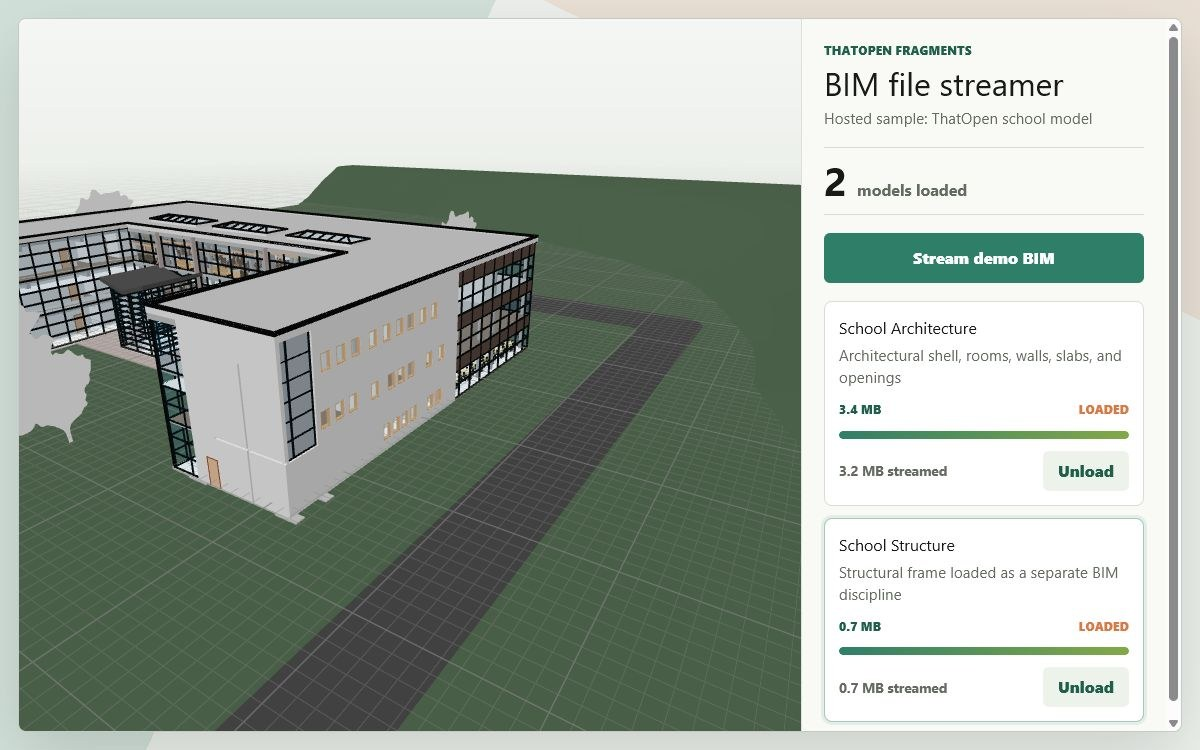
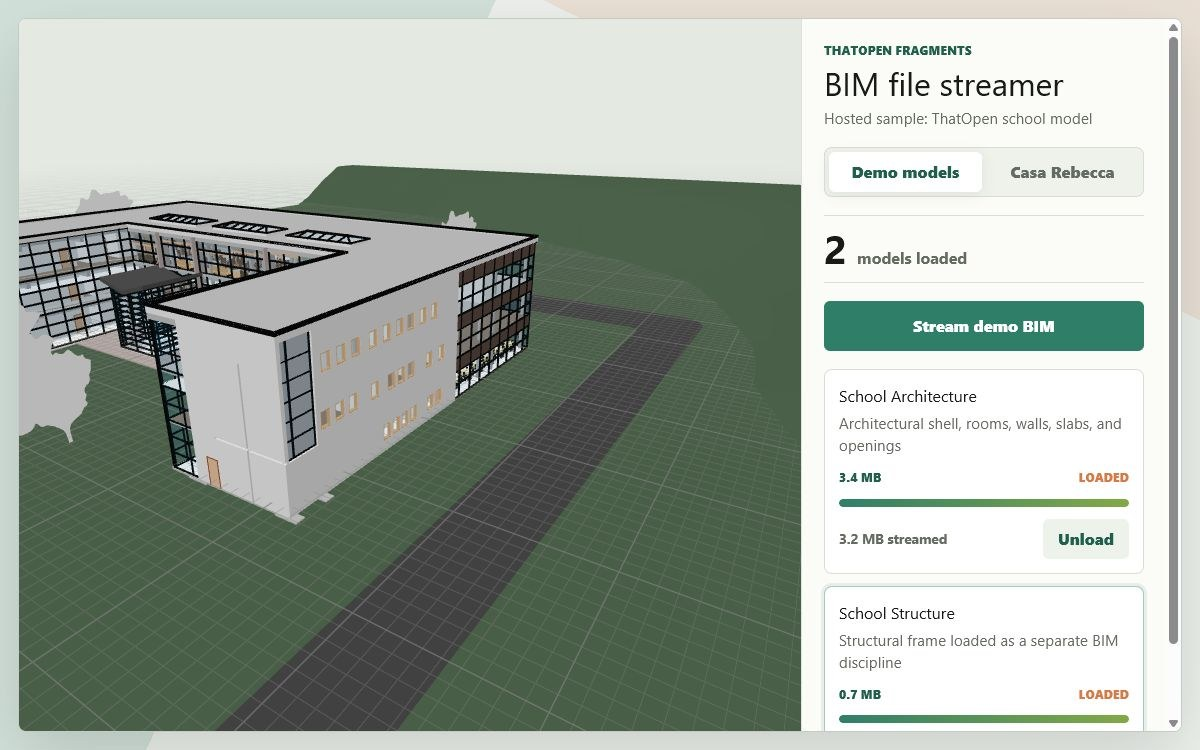
Add Casa Rebecca model switcher

Changed region(s): [[0.6783, 0.3067, 0.9867, 0.9813], [0.6783, 0.2147, 0.8325, 0.276], [0.8325, 0.2147, 0.925, 0.2453]]

diff --git a/app/BimStreamer.tsx b/app/BimStreamer.tsx
@@ -4,12 +4,17 @@ import { useEffect, useMemo, useRef, useState } from "react";
 
 type ModelStatus = "idle" | "streaming" | "loaded" | "error";
 
+type DatasetId = "demo" | "casa";
+
 type DemoModel = {
+  dataset: DatasetId;
   description: string;
+  disabledReason?: string;
   id: string;
   name: string;
+  sourceFormat: string;
   size: string;
-  url: string;
+  url?: string;
 };
 
 type ModelState = {
@@ -37,18 +42,52 @@ type Runtime = {
 
 const MODELS: DemoModel[] = [
   {
+    dataset: "demo",
     description: "Architectural shell, rooms, walls, slabs, and openings",
     id: "school_arq",
     name: "School Architecture",
+    sourceFormat: "Fragments",
     size: "3.4 MB",
     url: "/models/school_arq.frag",
   },
   {
+    dataset: "demo",
     description: "Structural frame loaded as a separate BIM discipline",
     id: "school_str",
     name: "School Structure",
+    sourceFormat: "Fragments",
     size: "0.7 MB",
     url: "/models/school_str.frag",
+  },
+  {
+    dataset: "casa",
+    description: "Kilpoole House Project.rvt from Google Drive",
+    disabledReason:
+      "Casa Rebecca is an RVT source file. This browser stack can stream IFC-derived Fragments, so the RVT must be exported to IFC or converted with Revit/Autodesk tooling first.",
+    id: "casa_rebecca",
+    name: "Casa Rebecca",
+    sourceFormat: "RVT source",
+    size: "431 MB",
+  },
+];
+
+const DATASETS: Array<{
+  action: string;
+  description: string;
+  id: DatasetId;
+  label: string;
+}> = [
+  {
+    action: "Stream demo BIM",
+    description: "Hosted sample: ThatOpen school model",
+    id: "demo",
+    label: "Demo models",
+  },
+  {
+    action: "Load Casa Rebecca",
+    description: "RVT source: conversion needed",
+    id: "casa",
+    label: "Casa Rebecca",
   },
 ];
 
@@ -111,12 +150,24 @@ export default function BimStreamer() {
   const [bootError, setBootError] = useState<string | null>(null);
   const [modelStates, setModelStates] = useState(initialModelState);
   const [activeModelId, setActiveModelId] = useState<string | null>(null);
+  const [activeDatasetId, setActiveDatasetId] = useState<DatasetId>("demo");
+
+  const activeDataset = DATASETS.find(
+    (dataset) => dataset.id === activeDatasetId,
+  )!;
+
+  const currentModels = useMemo(
+    () => MODELS.filter((model) => model.dataset === activeDatasetId),
+    [activeDatasetId],
+  );
+
+  const hasStreamableModels = currentModels.some((model) => model.url);
 
   const activeCount = useMemo(
     () =>
-      Object.values(modelStates).filter((model) => model.status === "loaded")
+      currentModels.filter((model) => modelStates[model.id].status === "loaded")
         .length,
-    [modelStates],
+    [currentModels, modelStates],
   );
 
   useEffect(() => {
@@ -126,7 +177,10 @@ export default function BimStreamer() {
       if (!viewerRef.current) return;
 
       try {
-        const OBC = await import("@thatopen/components");
+        const [OBC, THREE] = await Promise.all([
+          import("@thatopen/components"),
+          import("three"),
+        ]);
         const components = new OBC.Components();
         const worlds = components.get(OBC.Worlds);
         const world = worlds.create<
@@ -137,10 +191,10 @@ export default function BimStreamer() {
 
         world.scene = new OBC.SimpleScene(components);
         world.scene.setup();
-        world.scene.three.background = null;
+        world.scene.three.background = new THREE.Color("#e4e9e2");
         world.renderer = new OBC.SimpleRenderer(components, viewerRef.current, {
           antialias: true,
-          alpha: true,
+          alpha: false,
         });
         world.renderer.showLogo = false;
         world.camera = new OBC.OrthoPerspectiveCamera(components);
@@ -209,6 +263,14 @@ export default function BimStreamer() {
   const loadModel = async (model: DemoModel) => {
     const runtime = runtimeRef.current;
     if (!runtime || modelStates[model.id].status === "streaming") return;
+    if (!model.url) {
+      setActiveModelId(model.id);
+      setModelState(model.id, {
+        error: model.disabledReason,
+        status: "error",
+      });
+      return;
+    }
 
     try {
       if (runtime.fragments.list.has(model.id)) {
@@ -272,8 +334,30 @@ export default function BimStreamer() {
     });
   };
 
+  const unloadAllModels = async () => {
+    const runtime = runtimeRef.current;
+    if (runtime) {
+      for (const model of MODELS) {
+        if (runtime.fragments.list.has(model.id)) {
+          await runtime.fragments.core.disposeModel(model.id);
+        }
+      }
+      runtime.fragments.core.update(true);
+    }
+
+    setActiveModelId(null);
+    setModelStates(initialModelState());
+  };
+
+  const switchDataset = async (dataset: DatasetId) => {
+    if (dataset === activeDatasetId) return;
+    await unloadAllModels();
+    setActiveDatasetId(dataset);
+  };
+
   const loadAll = async () => {
-    for (const model of MODELS) {
+    for (const model of currentModels) {
+      if (!model.url) continue;
       if (modelStates[model.id].status !== "loaded") {
         await loadModel(model);
       }
@@ -295,8 +379,21 @@ export default function BimStreamer() {
           <header>
             <span>ThatOpen fragments</span>
             <h1>BIM file streamer</h1>
-            <p>Hosted sample: ThatOpen school model</p>
+            <p>{activeDataset.description}</p>
           </header>
+
+          <div className="dataset-switcher" aria-label="Model set">
+            {DATASETS.map((dataset) => (
+              <button
+                aria-pressed={activeDatasetId === dataset.id}
+                key={dataset.id}
+                onClick={() => void switchDataset(dataset.id)}
+                type="button"
+              >
+                {dataset.label}
+              </button>
+            ))}
+          </div>
 
           <div className="status-strip">
             <strong>{activeCount}</strong>
@@ -305,25 +402,32 @@ export default function BimStreamer() {
 
           <button
             className="primary-action"
-            disabled={!isReady || Object.values(modelStates).some(
-              (state) => state.status === "streaming",
-            )}
+            disabled={
+              !isReady ||
+              !hasStreamableModels ||
+              Object.values(modelStates).some(
+                (state) => state.status === "streaming",
+              )
+            }
             onClick={loadAll}
             type="button"
           >
-            Stream demo BIM
+            {hasStreamableModels ? activeDataset.action : "Needs conversion"}
           </button>
 
           <div className="model-list">
-            {MODELS.map((model) => {
+            {currentModels.map((model) => {
               const state = modelStates[model.id];
               const isLoaded = state.status === "loaded";
               const isStreaming = state.status === "streaming";
               const isActive = activeModelId === model.id;
+              const isBlocked = !model.url;
 
               return (
                 <article
-                  className={`model-row ${isActive ? "model-row-active" : ""}`}
+                  className={`model-row ${isActive ? "model-row-active" : ""} ${
+                    isBlocked ? "model-row-blocked" : ""
+                  }`}
                   key={model.id}
                 >
                   <div>
@@ -333,7 +437,7 @@ export default function BimStreamer() {
 
                   <div className="model-meta">
                     <span>{model.size}</span>
-                    <span>{state.status}</span>
+                    <span>{isBlocked ? model.sourceFormat : state.status}</span>
                   </div>
 
                   <div className="progress-track">
@@ -342,20 +446,34 @@ export default function BimStreamer() {
 
                   <div className="row-footer">
                     <span>
-                      {state.bytesLoaded
+                      {isBlocked
+                        ? "RVT source not streamable"
+                        : state.bytesLoaded
                         ? `${formatBytes(state.bytesLoaded)} streamed`
                         : "Ready to stream"}
                     </span>
                     <button
-                      disabled={!isReady || isStreaming}
-                      onClick={() => (isLoaded ? unloadModel(model) : loadModel(model))}
+                      disabled={!isReady || isStreaming || isBlocked}
+                      onClick={() =>
+                        isLoaded ? unloadModel(model) : loadModel(model)
+                      }
                       type="button"
                     >
-                      {isLoaded ? "Unload" : isStreaming ? "Streaming" : "Load"}
+                      {isBlocked
+                        ? "Needs IFC"
+                        : isLoaded
+                          ? "Unload"
+                          : isStreaming
+                            ? "Streaming"
+                            : "Load"}
                     </button>
                   </div>
 
-                  {state.error ? <p className="error-text">{state.error}</p> : null}
+                  {state.error || model.disabledReason ? (
+                    <p className="error-text">
+                      {state.error ?? model.disabledReason}
+                    </p>
+                  ) : null}
                 </article>
               );
             })}

diff --git a/app/globals.css b/app/globals.css
@@ -50,6 +50,7 @@ button {
 
 .viewer-shell {
   position: relative;
+  isolation: isolate;
   display: grid;
   grid-template-columns: minmax(0, 1fr) 380px;
   height: calc(100vh - 36px);
@@ -63,7 +64,11 @@ button {
 
 .viewer-surface {
   position: relative;
+  z-index: 1;
+  contain: paint;
   min-height: 0;
+  overflow: hidden;
+  clip-path: inset(0);
   background:
     linear-gradient(180deg, rgba(255, 255, 255, 0.62), transparent 42%),
     #e4e9e2;
@@ -89,15 +94,20 @@ button {
 }
 
 .control-panel {
+  position: relative;
+  z-index: 10;
+  contain: paint;
+  clip-path: inset(0);
+  transform: translateZ(0);
   display: flex;
   flex-direction: column;
   gap: 18px;
   min-width: 0;
   overflow: auto;
+  overflow-x: hidden;
   padding: 22px;
   border-left: 1px solid rgba(23, 26, 22, 0.12);
-  background: rgba(251, 252, 248, 0.94);
-  backdrop-filter: blur(18px);
+  background: var(--panel);
 }
 
 .control-panel header {
@@ -133,6 +143,32 @@ button {
   gap: 10px;
   padding: 12px 0;
   border-block: 1px solid var(--line);
+}
+
+.dataset-switcher {
+  display: grid;
+  grid-template-columns: 1fr 1fr;
+  gap: 4px;
+  padding: 4px;
+  border: 1px solid var(--line);
+  border-radius: 8px;
+  background: #eef2eb;
+}
+
+.dataset-switcher button {
+  min-height: 40px;
+  border: 0;
+  border-radius: 6px;
+  background: transparent;
+  color: var(--muted);
+  cursor: pointer;
+  font-weight: 800;
+}
+
+.dataset-switcher button[aria-pressed="true"] {
+  background: var(--panel-strong);
+  color: var(--accent-strong);
+  box-shadow: 0 3px 14px rgba(32, 42, 34, 0.08);
 }
 
 .status-strip strong {
@@ -193,6 +229,10 @@ button {
 .model-row-active {
   border-color: rgba(47, 127, 104, 0.42);
   box-shadow: 0 0 0 3px rgba(47, 127, 104, 0.1);
+}
+
+.model-row-blocked {
+  background: #fffaf5;
 }
 
 .model-row h2 {

diff --git a/README.md b/README.md
@@ -9,11 +9,24 @@ into a browser-based 3D viewer.
 - Streams each file with byte progress in the UI
 - Loads the streamed buffers into `@thatopen/components` `FragmentsManager`
 - Shows architecture and structure models as separate BIM disciplines
+- Lets you switch between the streamable demo set and a Casa Rebecca model slot
 
 The bundled sample files come from ThatOpen's public fragment demo resources:
 
 - `school_arq.frag`
 - `school_str.frag`
+
+## Casa Rebecca Source
+
+The provided Casa Rebecca Google Drive file is `Kilpoole House Project.rvt`,
+a 431 MB Autodesk Revit project. It was downloaded locally to inspect the file
+type, but the raw RVT is intentionally ignored via `source-models/` and is not
+committed or deployed.
+
+ThatOpen's browser pipeline streams Fragment files generated from IFC data. To
+make Casa Rebecca streamable in this app, export the RVT to IFC with Revit,
+Autodesk Platform Services, or another RVT-to-IFC converter, then convert the
+IFC to `.frag`.
 
 ## Commands
 